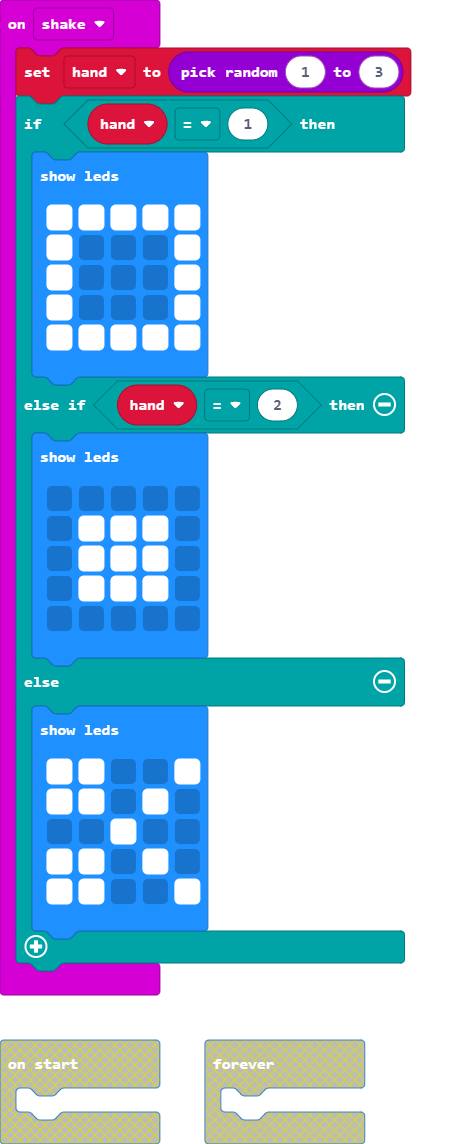
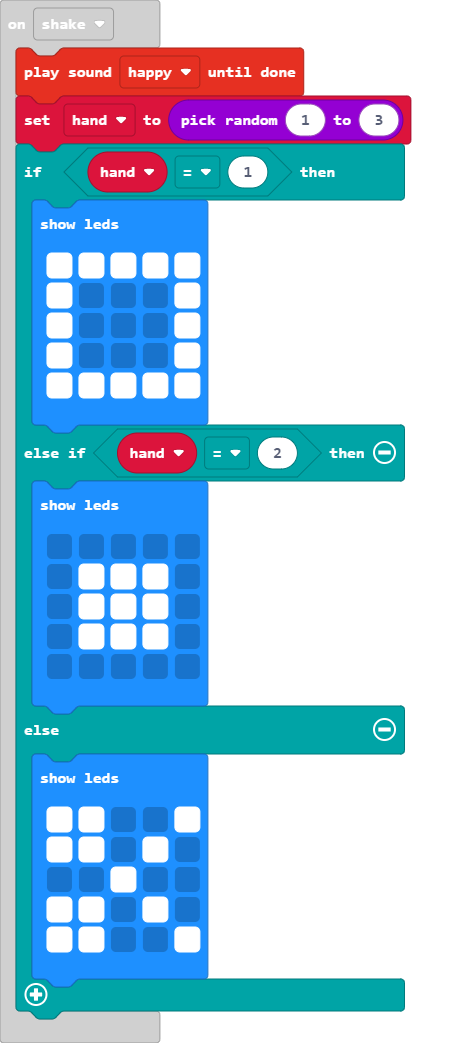
Play sound

diff --git a/main.ts b/main.ts
@@ -1,5 +1,6 @@
 let hand = 0
 input.onGesture(Gesture.Shake, function () {
+    soundExpression.happy.playUntilDone()
     hand = randint(1, 3)
     if (hand == 1) {
         basic.showLeds(`
